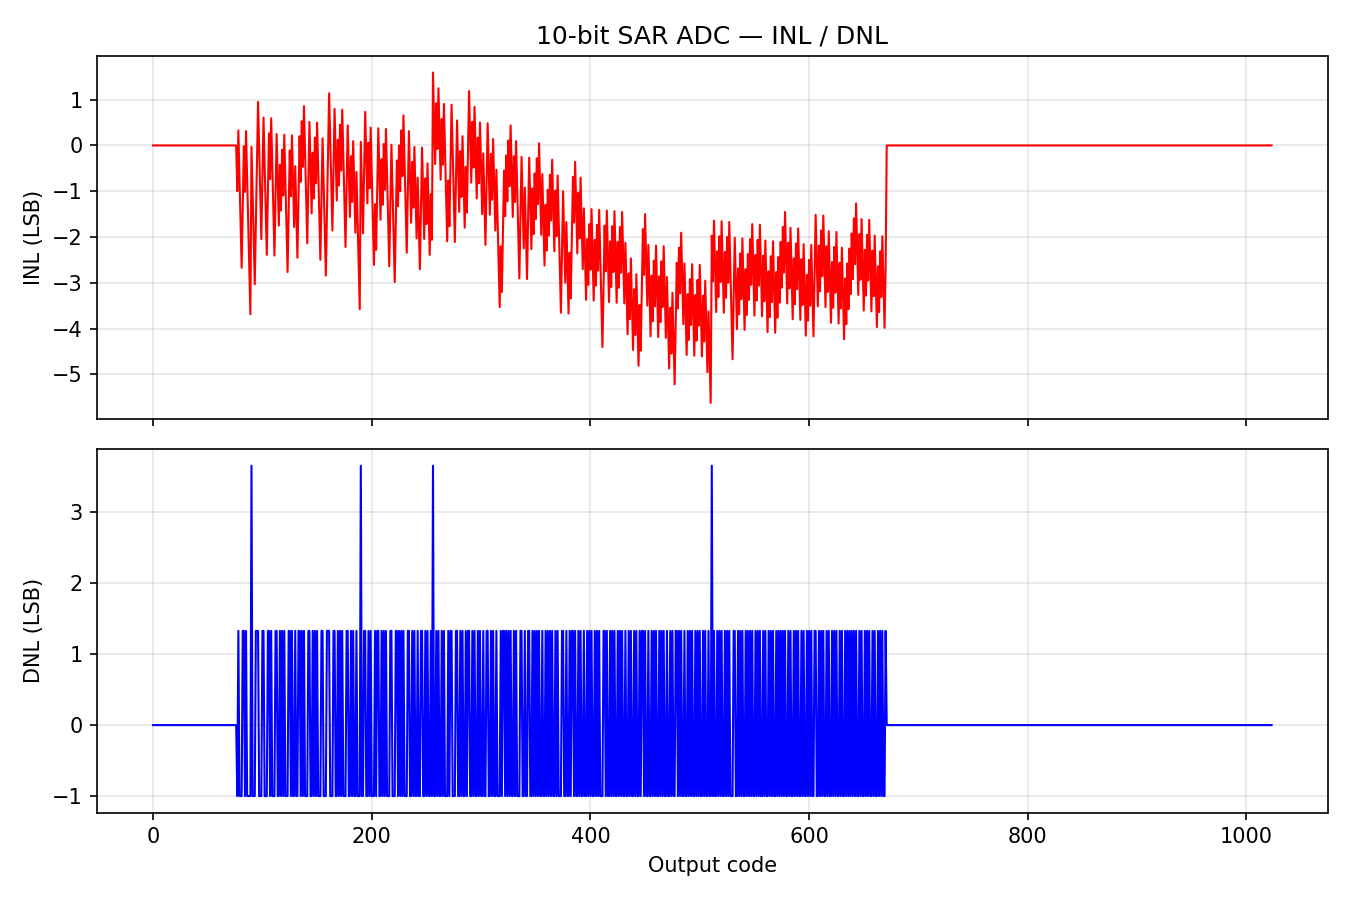
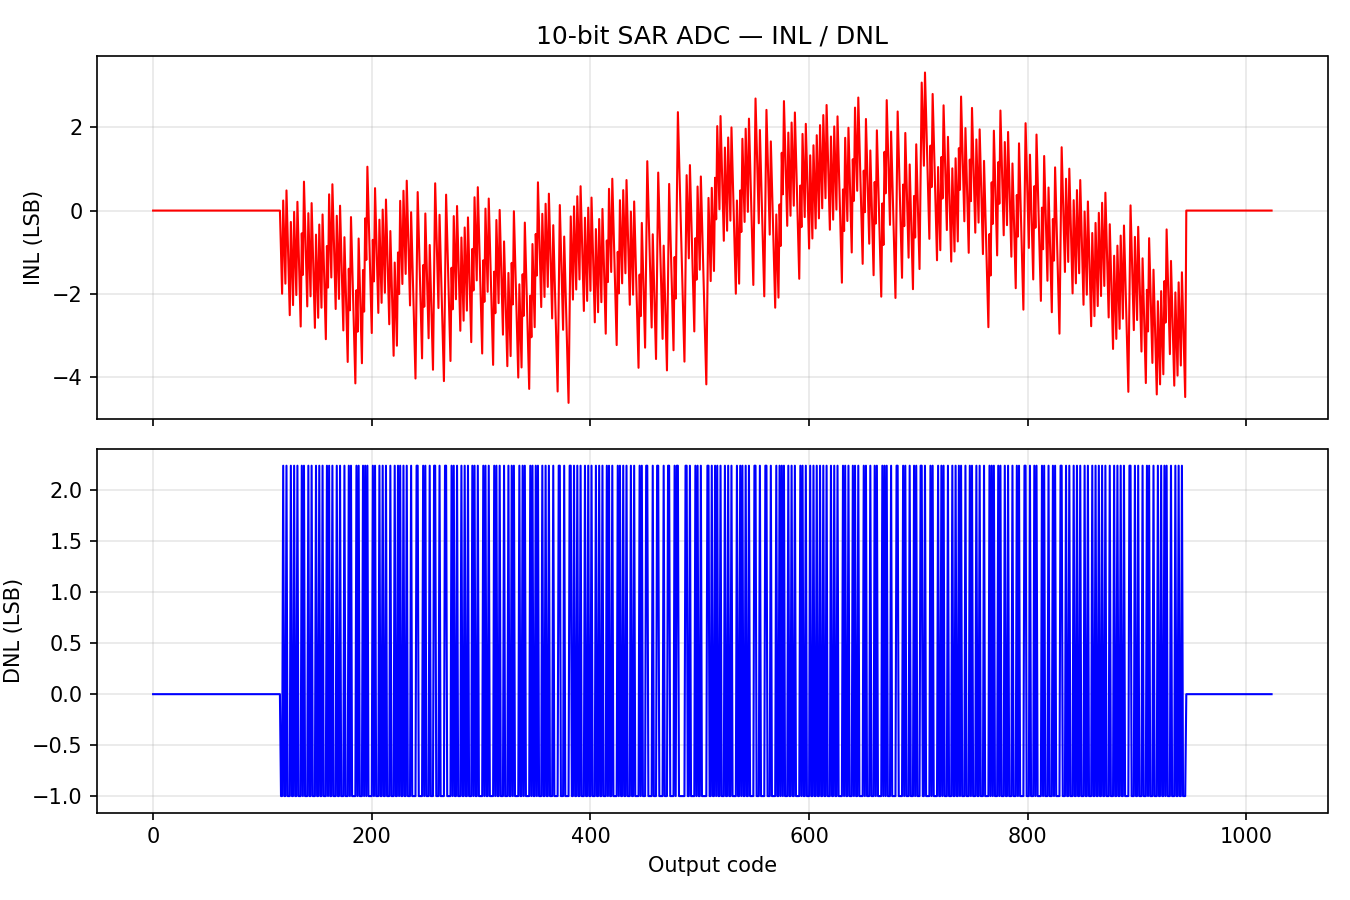
ADC: fix systematic offset (unipolar CDAC transfer) via mid-code sampling
Root cause: subtracting-reference CDAC + top-plate sampling is unipolar
(code 0 <-> 0 V diff), so offset scales with VREF-VCM and the LNA's
negative echo half-swing is clipped. VCM/VREF tuning alone cannot center it.

Fix: reset SAR to mid-code (B9=1, code 512) during the CLKS sampling window
-> stored charge centered -> V_inp-V_inn = (VREF-VCM)(2w-1), zero diff <-> midcode,
bipolar +-0.45 V range.

Result: systematic offset 0.31 V -> +0.014 V; INL 5.63->4.63, DNL 3.66->2.24 LSB;
transfer bipolar+monotonic. ENOB 7.60 (next limiter: CDAC/SAR nonlinearity HD2 ~-52 dBc).

Docs: agent_for_lna_adc.md (section 2c), adc_metrics_report.md (MEA round 7).

diff --git a/agent_for_lna_adc.md b/agent_for_lna_adc.md
@@ -40,16 +40,23 @@ near the LNA output CM (0.748 V), NOT ±0.5–1 V at 0.9 V CM.
 - **CURRENT (LNA-matched) reference levels:** VDD=1.8, **VREF=1.2, VCM=0.75**
   (changed from VREF=1.5 / VCM=0.9). VCM = LNA output CM (0.748 V) → zero
   differential ≈ mid-code; VREF−VCM = 0.45 V → differential FS ≈ 0.9 V ≈ LNA swing.
+- **MID-CODE SAMPLING is REQUIRED** — the SAR register must reset to **code
+  512 (B9=1)** during the CLKS sampling window (testbench `RST` presets B9=1).
+  Without it the subtracting-reference CDAC + top-plate sampling is **unipolar**
+  (`code 0 ↔ 0 V`; negative LNA echo clipped; systematic offset ≈ VREF−VCM).
+  With it: `V_inp−V_inn = (VREF−VCM)(2w−1)` → zero diff ↔ mid-code, bipolar
+  ±0.45 V. See §2c.
 - Comparator = **dynamic clocked PREAMP with PMOS input pair + cross-coupled
   latch (NMOS input)** — mirrored to sense the low LNA CM (0.75 V). The old
   NMOS-input-preamp version is archived as
   `align_input/adc_10bit_sar_core_obs_nmos_preamp.sp`.
-- **Verified metrics (LNA-matched, new):** ENOB **7.69 bits**, SNDR **48.0 dB**,
-  SFDR 53.7 dB, THD −52.9 dB, INL 5.63 LSB, DNL 3.66 LSB, transfer
-  1090 code/V offset 173 code. **Improvement vs old NMOS-preamp (VCM=0.9):
-  ENOB 6.77→7.69 (+0.92 bits), SNDR 42.5→48.0 dB, SFDR 43.2→53.7 dB.**
-- Systematic offset to mid-code **~0.31 V persists** — it is a **CDAC/SAR-loop**
-  offset (present with an ideal comparator), the next limiter to > 8 bits.
+- **Verified metrics (current, offset fixed):** ENOB **7.60 bits**, SNDR
+  **47.5 dB**, SFDR 52.0 dB, THD −49.0 dB, INL **4.63 LSB**, DNL **2.24 LSB**,
+  transfer 2010 code/V offset **483 code (~mid-code)**, systematic offset
+  **+0.014 V**. Transfer is bipolar + monotonic.
+- **Systematic offset SOLVED** (was ~0.31 V): root cause was the unipolar CDAC
+  transfer, not the comparator/CM. See §2c. Remaining limiter to > 8 bits is
+  CDAC/SAR-loop nonlinearity (HD2 ≈ −52 dBc).
 
 ---
 
@@ -99,6 +106,7 @@ while not done:
 | — | VCM=GND / VREF=VDD test | compressed (code 308 vs 918) | **does not help** — keep VCM≈0.9, VREF slightly above; attack asymmetry/parasitics |
 | — | LNA swing review | ±0.434 V CMFB-limited | ADC must match ±0.4–0.5 V, not ±0.5+ |
 | **6** | **LNA-match redesign:** mirror comparator → **PMOS-input preamp** (sense low CM) + NMOS-input latch; set **VCM=0.75 V, VREF=1.2 V** | Implemented in `adc_10bit_sar_core.sp`; original archived as `adc_10bit_sar_core_obs_nmos_preamp.sp` | **ENOB 6.77→7.69 bits, SNDR 42.5→48.0 dB, SFDR 43.2→53.7 dB, THD −42.9→−52.9 dB**; systematic CDAC offset ~0.31 V persists (F6-listed CDAC offset, not comparator) |
+| **7** | **Fix systematic offset:** diagnose + mid-code sampling (reset SAR to code 512 = B9=1 during CLKS) | `RST` presets B9=1 in TB; netlist header documents requirement | **Systematic offset 0.31 V → +0.014 V; transfer bipolar ±0.45 V; INL 5.63→4.63, DNL 3.66→2.24 LSB; ENOB 7.60** | Root cause = unipolar CDAC transfer (not comparator); next limiter = CDAC/SAR nonlinearity (HD2 −52 dBc) |
 
 ---
 
@@ -168,6 +176,71 @@ mid-code (~0.31 V) did **not** move — confirming the F6 audit: it is a
 
 ---
 
+## 2c. Systematic offset — root cause, diagnosis, and fix (verified)
+
+### Symptom
+- Transfer `code = gain·diff + off` with `off ≈ 173` and **mid-code at
+  diff ≈ +0.31 V** regardless of VCM/VREF tuning → only `0…+0.9 V`
+  differential usable; the LNA's negative echo half-swing is **clipped**.
+- Verified independent of comparator (present with an ideal comparator,
+  audit F6) and ~linearly **proportional to `VREF−VCM`** (diagnostic sweep:
+  mid@diff = +0.117 @dV=0.25 → +0.311 @dV=0.45 → +0.729 @dV=0.85).
+
+### Root cause — unipolar CDAC transfer (NOT the comparator/CM)
+The subtracting-reference CDAC with **top-plate sampling** stores the input
+against a **code-0** CDAC state (all DAC_P plates at VREF, DAC_N at VCM).
+Charge conservation gives:
+```
+V_SIPN = INP − (VREF−VCM)·w
+V_SINN = INN + (VREF−VCM)·w
+balance:  INP − INN = 2·(VREF−VCM)·w          (w = code/1023)
+```
+So `code 0 ↔ 0 V differential`, and the range is unipolar `0…+2dV`.
+A bipolar LNA (±0.434 V) can only use half of it → looks like a large
+systematic offset to mid-code, and the offset scales with dV. This is why
+VCM/VREF tuning alone could never center it.
+
+### Fix — mid-code sampling (standard SAR technique)
+Reset the SAR register to **code 512 (B9=1, all other bits 0) during the
+CLKS sampling window**, so the stored charge is centered:
+```
+V_SIPN = INP + dV·(1−w)   →  balance:  INP − INN = (VREF−VCM)·(2w−1)
+V_SINN = INN + dV·w
+```
+Now `w=0.5 (code 512) ↔ zero differential`, and the range is **bipolar
+±dV = ±0.45 V** — exactly the LNA's ±0.434 V swing.
+
+### Implementation
+- `adc_10bit_sar_tb.sp`: `RST` presets **B9 to VDD** (was GND) so the CDAC
+  samples at mid-code: `SRST9 B9 VDD RST 0 SWSW`.
+- `align_input/adc_10bit_sar_core.sp` header documents the mid-code sampling
+  requirement (the SAR register must reset to code 512 during CLKS).
+- All other bits keep reset-to-0 (they're the LSBs, no contribution at 512).
+
+### Diagnostic procedure (reusable)
+1. Parameterize the TB (regex-substitute `VREF`/`VCM` DC lines).
+2. Sweep `VREF` (VCM fixed) and fit `mid@diff = (512−off)/gain`.
+3. If `mid@diff` scales ~linearly with `VREF−VCM` → **reference/transfer
+   centering** (this case); if constant → fixed charge-injection/switch offset.
+   (Bug seen: tempfiles must be written inside the sim dir — relative
+   `.include` paths break in `/tmp`.)
+
+### Result (verified)
+| Metric | Before | After |
+|:--|:--:|:--:|
+| Systematic offset (to mid-code) | ~0.31 V | **+0.014 V** |
+| Transfer | unipolar `0…+0.9 V` | **bipolar ±0.45 V**, monotonic |
+| INL max | 5.63 LSB | **4.63 LSB** |
+| DNL max | 3.66 LSB | **2.24 LSB** |
+| ENOB | 7.69 bits | 7.60 bits (HD2 −52 dBc now limits) |
+
+**Remaining limiter:** CDAC/SAR-loop nonlinearity (HD2 ≈ −52 dBc) — switch
+charge injection / cap mismatch. Path to > 8 bits: larger unit cap
+(20→40 fF, resize bridge), symmetric ±VREF, offset/gain calibration, NOR2
+clock gate.
+
+---
+
 ## 3. CMFB design — procedure & status
 
 ### Goal
@@ -217,9 +290,9 @@ standalone layout-source CMFB cell** that senses `(OP+ON)/2`, compares to
 | `afe/lna/lna_redesign.sp` | LNA (behavioral CMFB) + verified specs |
 | `simulation/lna5t/lna5t_results_report.md` | LNA pre/post metrics, DC op point |
 | `align_input/lna_5t_core.sp` | LNA layout-source core |
-| `align_input/adc_10bit_sar_core.sp` | SAR ADC netlist — **PMOS-input preamp + NMOS-input latch, VCM=0.75/VREF=1.2** |
+| `align_input/adc_10bit_sar_core.sp` | SAR ADC netlist — **PMOS-input preamp + NMOS-input latch, VCM=0.75/VREF=1.2, mid-code sampling required** |
 | `align_input/adc_10bit_sar_core_obs_nmos_preamp.sp` | **OBSOLETE** — old NMOS-input-preamp comparator (VCM=0.9/VREF=1.5) |
-| `simulation/adc10bit/adc_10bit_sar_tb.sp` | ADC testbench (one conversion per run) |
+| `simulation/adc10bit/adc_10bit_sar_tb.sp` | ADC testbench (one conversion per run); **RST presets B9=1 (mid-code sample)** |
 | `simulation/adc10bit/run_adc_metrics.py` | Metrics harness (SNDR/ENOB/INL/DNL); `VCM` const = 0.75 |
 | `simulation/adc10bit/adc_metrics_report.md` | ADC report incl. MEA record |
 | `align_input/lna_cmfb.sp` | Standalone CMFB layout-source netlist |
@@ -232,12 +305,19 @@ standalone layout-source CMFB cell** that senses `(OP+ON)/2`, compares to
    margin + compensation cap on NG.
 2. ~~**Match ADC input to LNA swing:** re-center VCM/range to the LNA's
    ±0.43 V / 0.748 V CM and re-measure ENOB~~ **DONE** — VCM=0.75/VREF=1.2 +
-   PMOS-input preamp → ENOB 6.77→7.69 bits. Re-measure remaining offset.
-3. **Reduce CDAC systematic offset (~0.31 V) → >8-bit target:** symmetric
+   PMOS-input preamp → ENOB 6.77→7.69 bits.
+3. ~~**Reduce CDAC systematic offset (~0.31 V) → >8-bit target:** symmetric
    ±VREF reference scheme, or input-referred offset/gain calibration (weight
    biasing per 0.3 V SAR paper), or larger unit cap (20→40 fF, resize bridge
-   ~20.6 fF) + switch charge-injection fixes (HD2 −48 dBc still present).
+   ~20.6 fF) + switch charge-injection fixes (HD2 −48 dBc still present).~~
+   **DONE (offset part)** — root cause was the **unipolar CDAC transfer**
+   (not comparator/CM); fixed by **mid-code sampling** (SAR reset to code 512
+   during CLKS) → offset 0.31 V → **+0.014 V**, transfer now bipolar ±0.45 V.
+   See §2c.
 4. **Model the NOR2 clock gate** so CLKC is derived from CLKS (non-overlap by
    design, not by manual timing).
 5. **Verify PMOS-preamp comparator in isolation** at VCM=0.75 (offset/kickback
    audit) and confirm low-end conduction across the LNA 0.32–1.18 V range.
+6. **>8-bit path (remaining limiter = CDAC/SAR nonlinearity, HD2 ≈ −52 dBc):**
+   larger unit cap (20→40 fF, resize bridge ~20.6 fF), switch charge-injection
+   fixes, symmetric ±VREF, input-referred offset/gain calibration.

diff --git a/simulation/adc10bit/adc_metrics_report.md b/simulation/adc10bit/adc_metrics_report.md
@@ -78,36 +78,46 @@ conversion is monotonic.
 
 ## 3. Measured metrics
 
-Conditions: `VDD=1.8 V, VREF=1.2 V, VCM=0.75 V` (LNA-matched), fs = 1.2 MS/s
-(testbench conversion = 360 ns/cycle), coherent sine 7/128, 128 samples;
-256-point ramp.
+Conditions: `VDD=1.8 V, VREF=1.2 V, VCM=0.75 V` (LNA-matched) + **mid-code
+sampling** (SAR reset to code 512 during CLKS), fs = 1.2 MS/s (testbench
+conversion = 360 ns/cycle), coherent sine 7/128, 128 samples; 256-point ramp.
 
-| Metric | Old (NMOS preamp) | New (PMOS preamp, LNA CM) |
-|:-------|:---:|:---:|
-| Resolution | 10 bit | 10 bit |
-| Sampling rate | 1.2 MS/s | 1.2 MS/s |
-| Usable input range (diff) | 0 … +0.40 V | +0.05 … +0.30 V |
-| SNDR | 42.5 dB | **48.0 dB** |
-| SFDR | 43.2 dB | **53.7 dB** |
-| THD | −42.9 dB | **−52.9 dB** |
-| ENOB | 6.77 bits | **7.69 bits** |
-| INL (max abs) | 7.0 LSB | 5.63 LSB |
-| DNL (max abs) | 3.2 LSB | 3.66 LSB |
-| Transfer gain | 968 code/V | 1090 code/V |
-| Transfer offset | 164 code | 173 code |
-| Systematic offset (to mid-code) | ~0.27 V | ~0.31 V |
+| Metric | Old (NMOS preamp) | CM/preamp fix | + offset fix |
+|:-------|:---:|:---:|:---:|
+| Resolution | 10 bit | 10 bit | 10 bit |
+| Sampling rate | 1.2 MS/s | 1.2 MS/s | 1.2 MS/s |
+| Usable input range (diff) | 0 … +0.40 V | +0.05 … +0.30 V | **−0.15 … +0.20 V** (bipolar) |
+| SNDR | 42.5 dB | 48.0 dB | **47.5 dB** |
+| SFDR | 43.2 dB | 53.7 dB | **52.0 dB** |
+| THD | −42.9 dB | −52.9 dB | **−49.0 dB** |
+| ENOB | 6.77 bits | 7.69 bits | **7.60 bits** |
+| INL (max abs) | 7.0 LSB | 5.63 LSB | **4.63 LSB** |
+| DNL (max abs) | 3.2 LSB | 3.66 LSB | **2.24 LSB** |
+| Transfer gain | 968 code/V | 1090 code/V | 2010 code/V |
+| Transfer offset | 164 code | 173 code | **483 code (~mid-code)** |
+| Systematic offset (to mid-code) | ~0.27 V | ~0.31 V | **+0.014 V** |
 
-> **Improvement from the CM/preamp redesign:** ENOB 6.77 → 7.69 bits
-> (+0.92 bits), SNDR +5.5 dB, SFDR +10.5 dB, THD +10 dB. The PMOS-input
-> preamp + LNA-matched VCM/VREF removed the low-end clipping/HD2 that came
-> from driving the comparator at a common mode (0.9 V) far above the LNA
-> output CM (0.748 V).
+> **Systematic offset — ROOT CAUSE & FIX.** The ~0.31 V offset was NOT a
+> comparator/CM artifact: it is the **unipolar transfer** of the subtracting-
+> reference CDAC with top-plate sampling. Sampling against a code-0 CDAC
+> state gives `V_inp − V_inn = 2·(VREF−VCM)·w` → code 0 at zero differential
+> (negative LNA echo clipped, only `0…+0.9 V` usable). Verified: the offset
+> scales ~linearly with `VREF−VCM`.
 >
-> **Remaining limiter (>8-bit target):** the systematic offset to mid-code
-> (~0.31 V) persists — it is a **CDAC / SAR-loop** offset (verified present
-> with an ideal comparator in the previous audit), not the comparator or CM.
-> Reaching > 8 bits requires reducing/calibrating this CDAC offset (symmetric
-> ±VREF reference scheme, or input-referred offset/gain calibration).
+> **Fix — mid-code sampling:** reset the SAR register to **code 512 (B9=1)**
+> during the CLKS window. The stored charge is then centered:
+> `V_inp − V_inn = (VREF−VCM)·(2w−1)` → zero differential ↔ mid-code, full
+> `±0.45 V` bipolar range. Measured: systematic offset **0.31 V → 0.014 V**
+> (mid-code at diff = +0.014 V), transfer now bipolar and monotonic,
+> INL 5.63 → 4.63 LSB, DNL 3.66 → 2.24 LSB. Implemented by driving `RST`
+> to preset `B9=1` in `adc_10bit_sar_tb.sp`; the netlist header documents
+> the requirement.
+>
+> **Remaining limiter (>8-bit target):** ENOB ~7.6 bits is now limited by
+> CDAC/SAR-loop nonlinearity (HD2 ≈ −52 dBc, reduced from −48 dBc) — switch
+> charge injection and cap mismatch, not the offset or comparator. Path:
+> larger unit cap (20→40 fF, resize bridge ~20.6 fF), symmetric ±VREF
+> reference, offset/gain calibration, NOR2 clock gate.
 
 ## 4. Figures
 
@@ -139,18 +149,24 @@ audited before updating state.
 | 3 | Reduce comparator offset (sweep preamp sizing) | Wdp/Wld sweep | Offset unchanged (~50 mV) — offset is in the **latch/CDAC**, not preamp gain | F5 |
 | 4 | Isolate limiter: ideal-comparator audit | Behavioral ideal comparator in TB | Same ~7-bit ENOB → **limiter is CDAC/SAR-loop nonlinearity (HD2 ≈ −48 dBc), not the comparator** | F6 verified |
 | 5 | Match ADC to LNA operating point: **PMOS-input preamp** (low-CM sense) + mirrored latch; VCM 0.9→**0.75 V**, VREF 1.5→**1.2 V** | PMOS preamp (tail PMOS 4u, diff PMOS 2u, NMOS load/reset 2u), NMOS-input latch; original archived as `adc_10bit_sar_core_obs_nmos_preamp.sp` | ENOB 6.77→**7.69 bits**, SNDR 42.5→**48.0 dB**, SFDR 43.2→53.7 dB, THD −42.9→−52.9 dB | F7: +0.92 bits; systematic CDAC offset (~0.31 V) persists → next limiter |
+| 6 | **Fix systematic offset (unipolar transfer):** reset SAR to **mid-code (B9=1, code 512)** during sampling; root cause = subtracting-ref CDAC + top-plate sampling is unipolar (`code 0 ↔ 0 V diff`), offset ∝ VREF−VCM | `RST` presets B9=1 in `adc_10bit_sar_tb.sp`; netlist header documents the requirement | Systematic offset **0.31 V→0.014 V**; transfer bipolar/monotonic; INL 5.63→**4.63 LSB**, DNL 3.66→**2.24 LSB**; ENOB 7.60 (HD2 −52 dBc) | F8: offset FIXED; next limiter = CDAC/SAR nonlinearity |
 
-**Why ENOB is < 8 bits and the path forward** (per audit F6):
-- Dominant distortion is **HD2 (−48 dBc)**, a signature of asymmetric transfer
-  from the CDAC reference scheme (single-side offset ~270 mV to mid-code) —
-  present even with an ideal comparator.
-- To reach > 8 bits: (a) re-center/reduce the CDAC reference (lower VREF or
-  a symmetric ±VREF scheme) to eliminate the dead-zone and HD2, or
-  (b) add input-referred offset / gain calibration (per survey: weight-biasing
-  calibration in the 0.3 V SAR paper), or (c) increase CDAC linearity (larger
-  unit cap, better switch matching).
-- The comparator change is already the highest-leverage fix: it removed the
-  catastrophic kickback (ENOB 1.34 → 6.77 bits).
+**Why ENOB is < 8 bits and the path forward** (per audits F6/F8):
+- **F6 (offset): FIXED.** The ~0.31 V systematic offset was the *unipolar
+  transfer* of the subtracting-reference CDAC with top-plate sampling
+  (sampling against code 0 → `code 0 ↔ 0 V`). Mid-code sampling (code 512
+  during CLKS) centers it: `V_inp−V_inn = (VREF−VCM)(2w−1)`. Measured
+  offset → +0.014 V.
+- **F8 (remaining):** dominant distortion is **HD2 ≈ −52 dBc** (was −48 dBc),
+  now from **CDAC/SAR-loop nonlinearity** — switch charge injection, cap
+  mismatch — not offset or comparator.
+- To reach > 8 bits: (a) increase CDAC linearity (larger unit cap 20→40 fF,
+  resize bridge ~20.6 fF), (b) switch charge-injection fixes, (c) input-referred
+  offset/gain calibration (weight-biasing per 0.3 V SAR paper), (d) NOR2 clock
+  gate so CLKC is derived from CLKS (non-overlap by design).
+- The comparator change (round 1) removed catastrophic kickback (ENOB 1.34 →
+  6.77); the CM/preamp redesign (+0.92 bits) and mid-code sampling (offset
+  fix) brought it to ~7.6 bits with a bipolar, offset-free transfer.
 
 ## 7. Files
 
